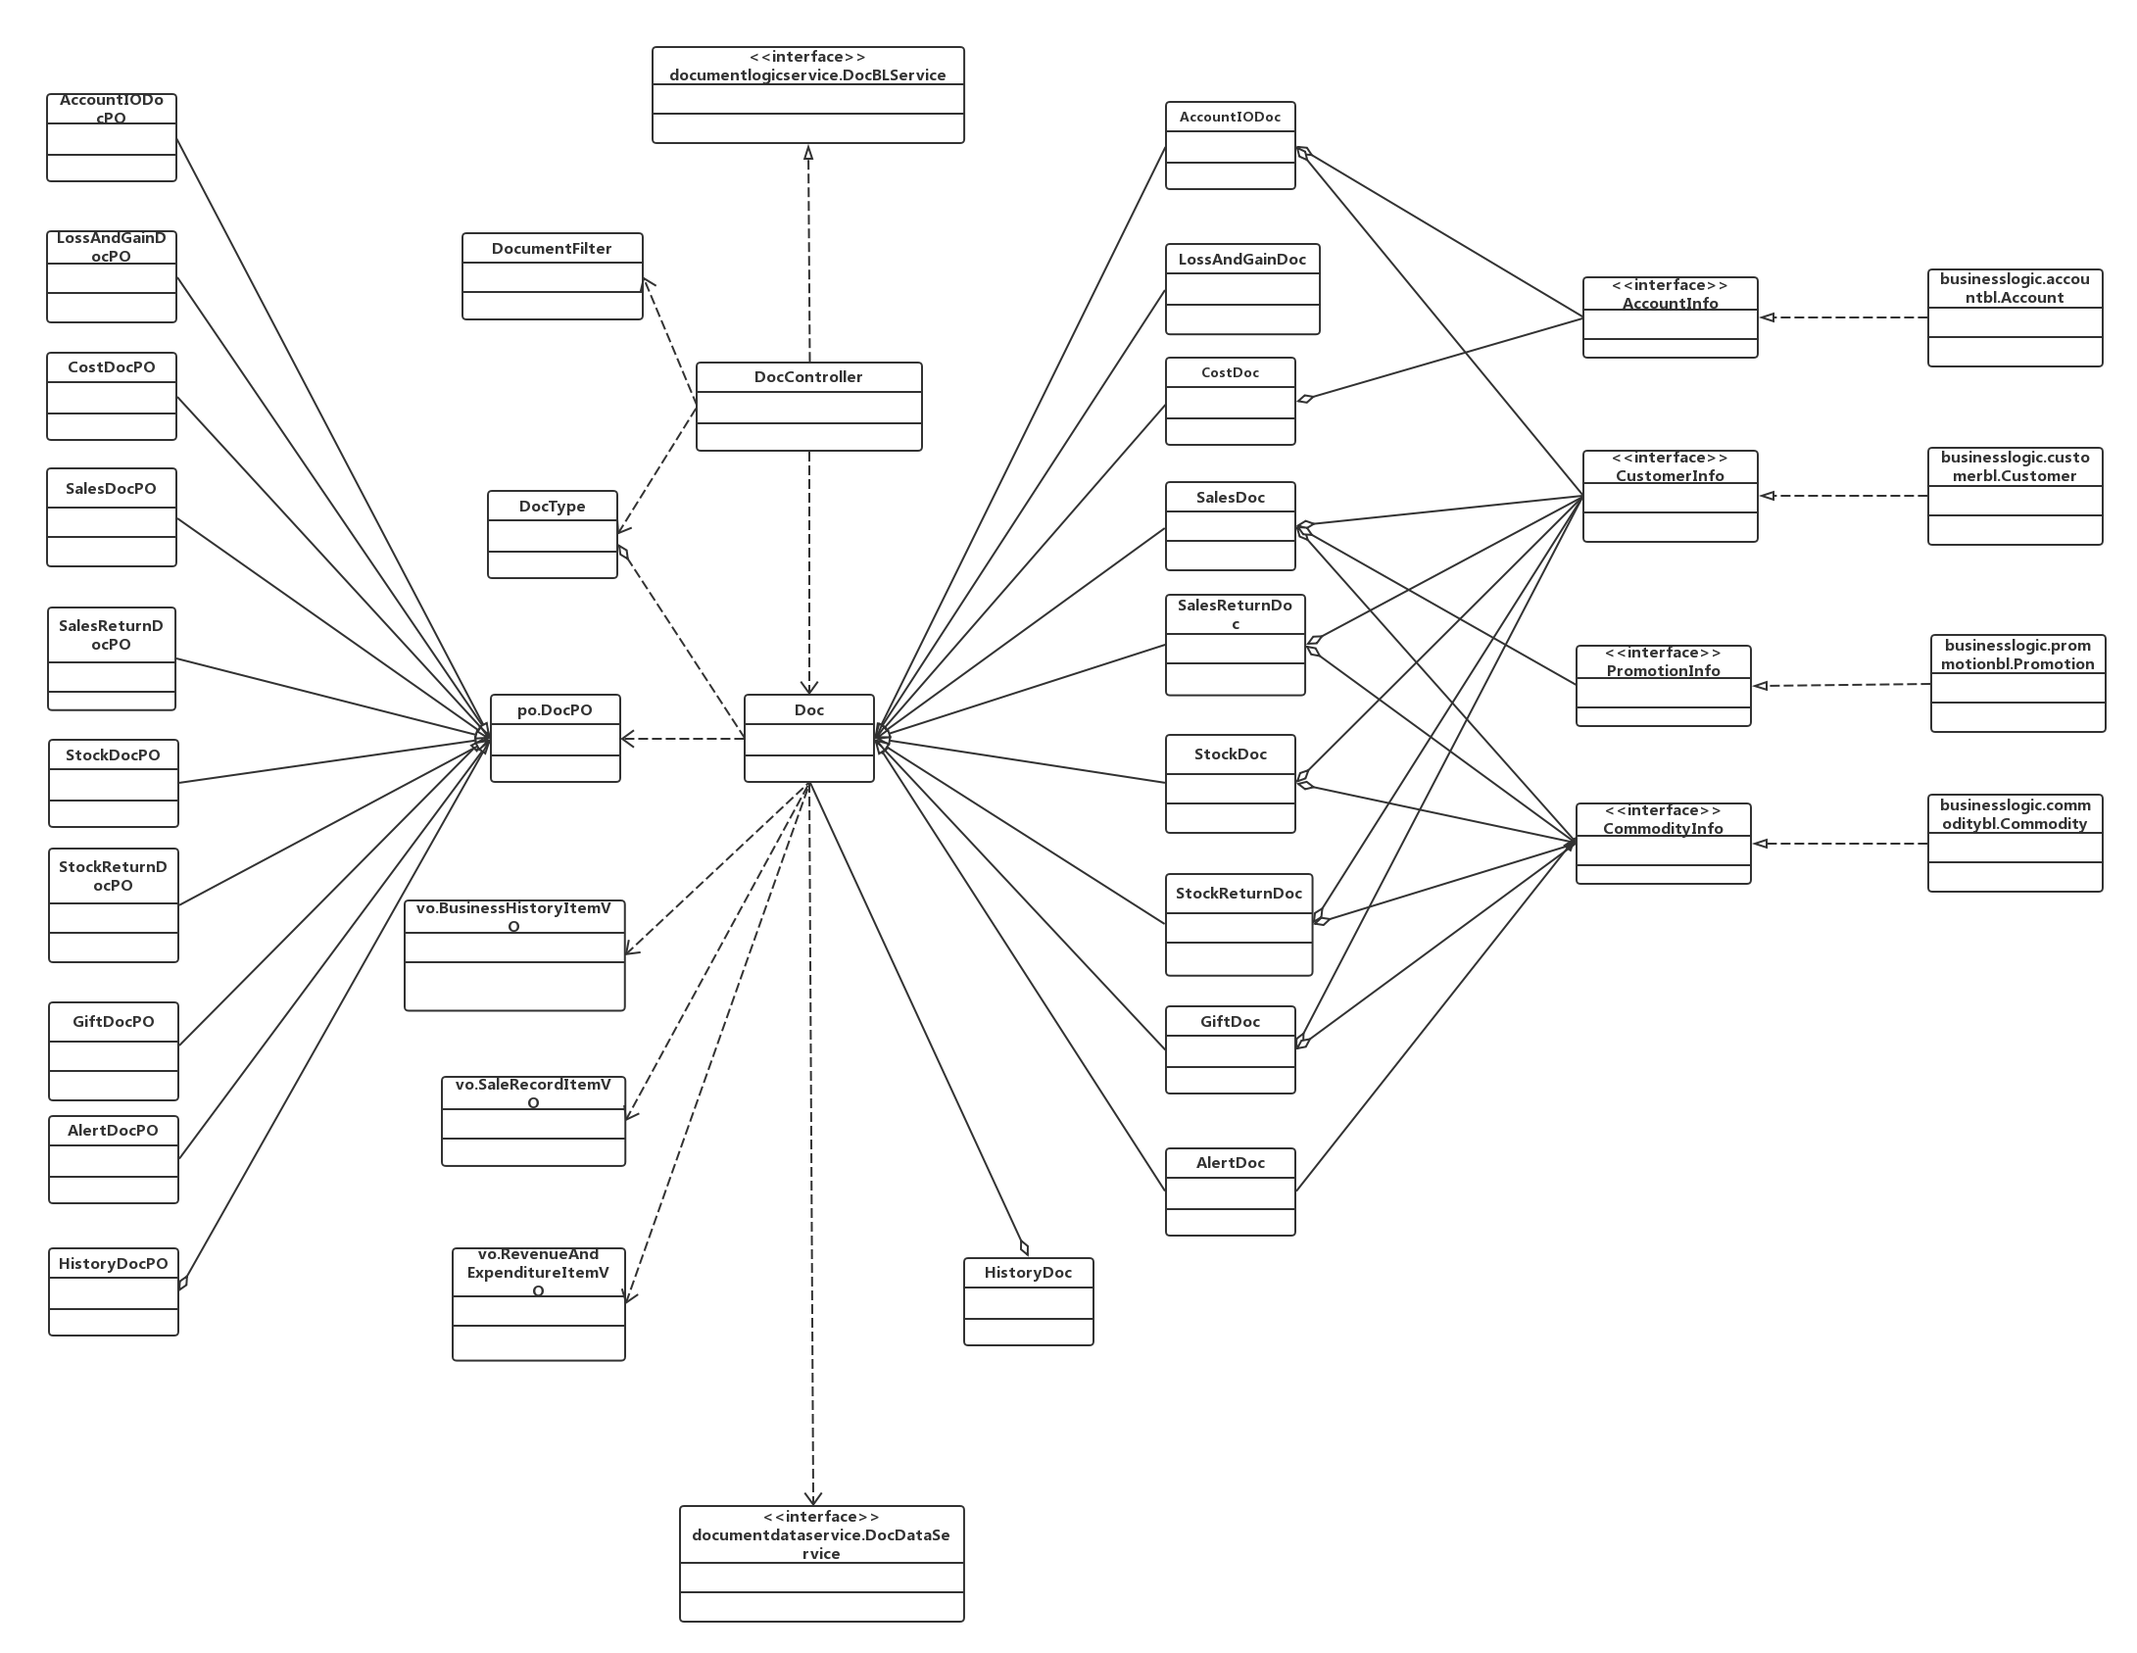
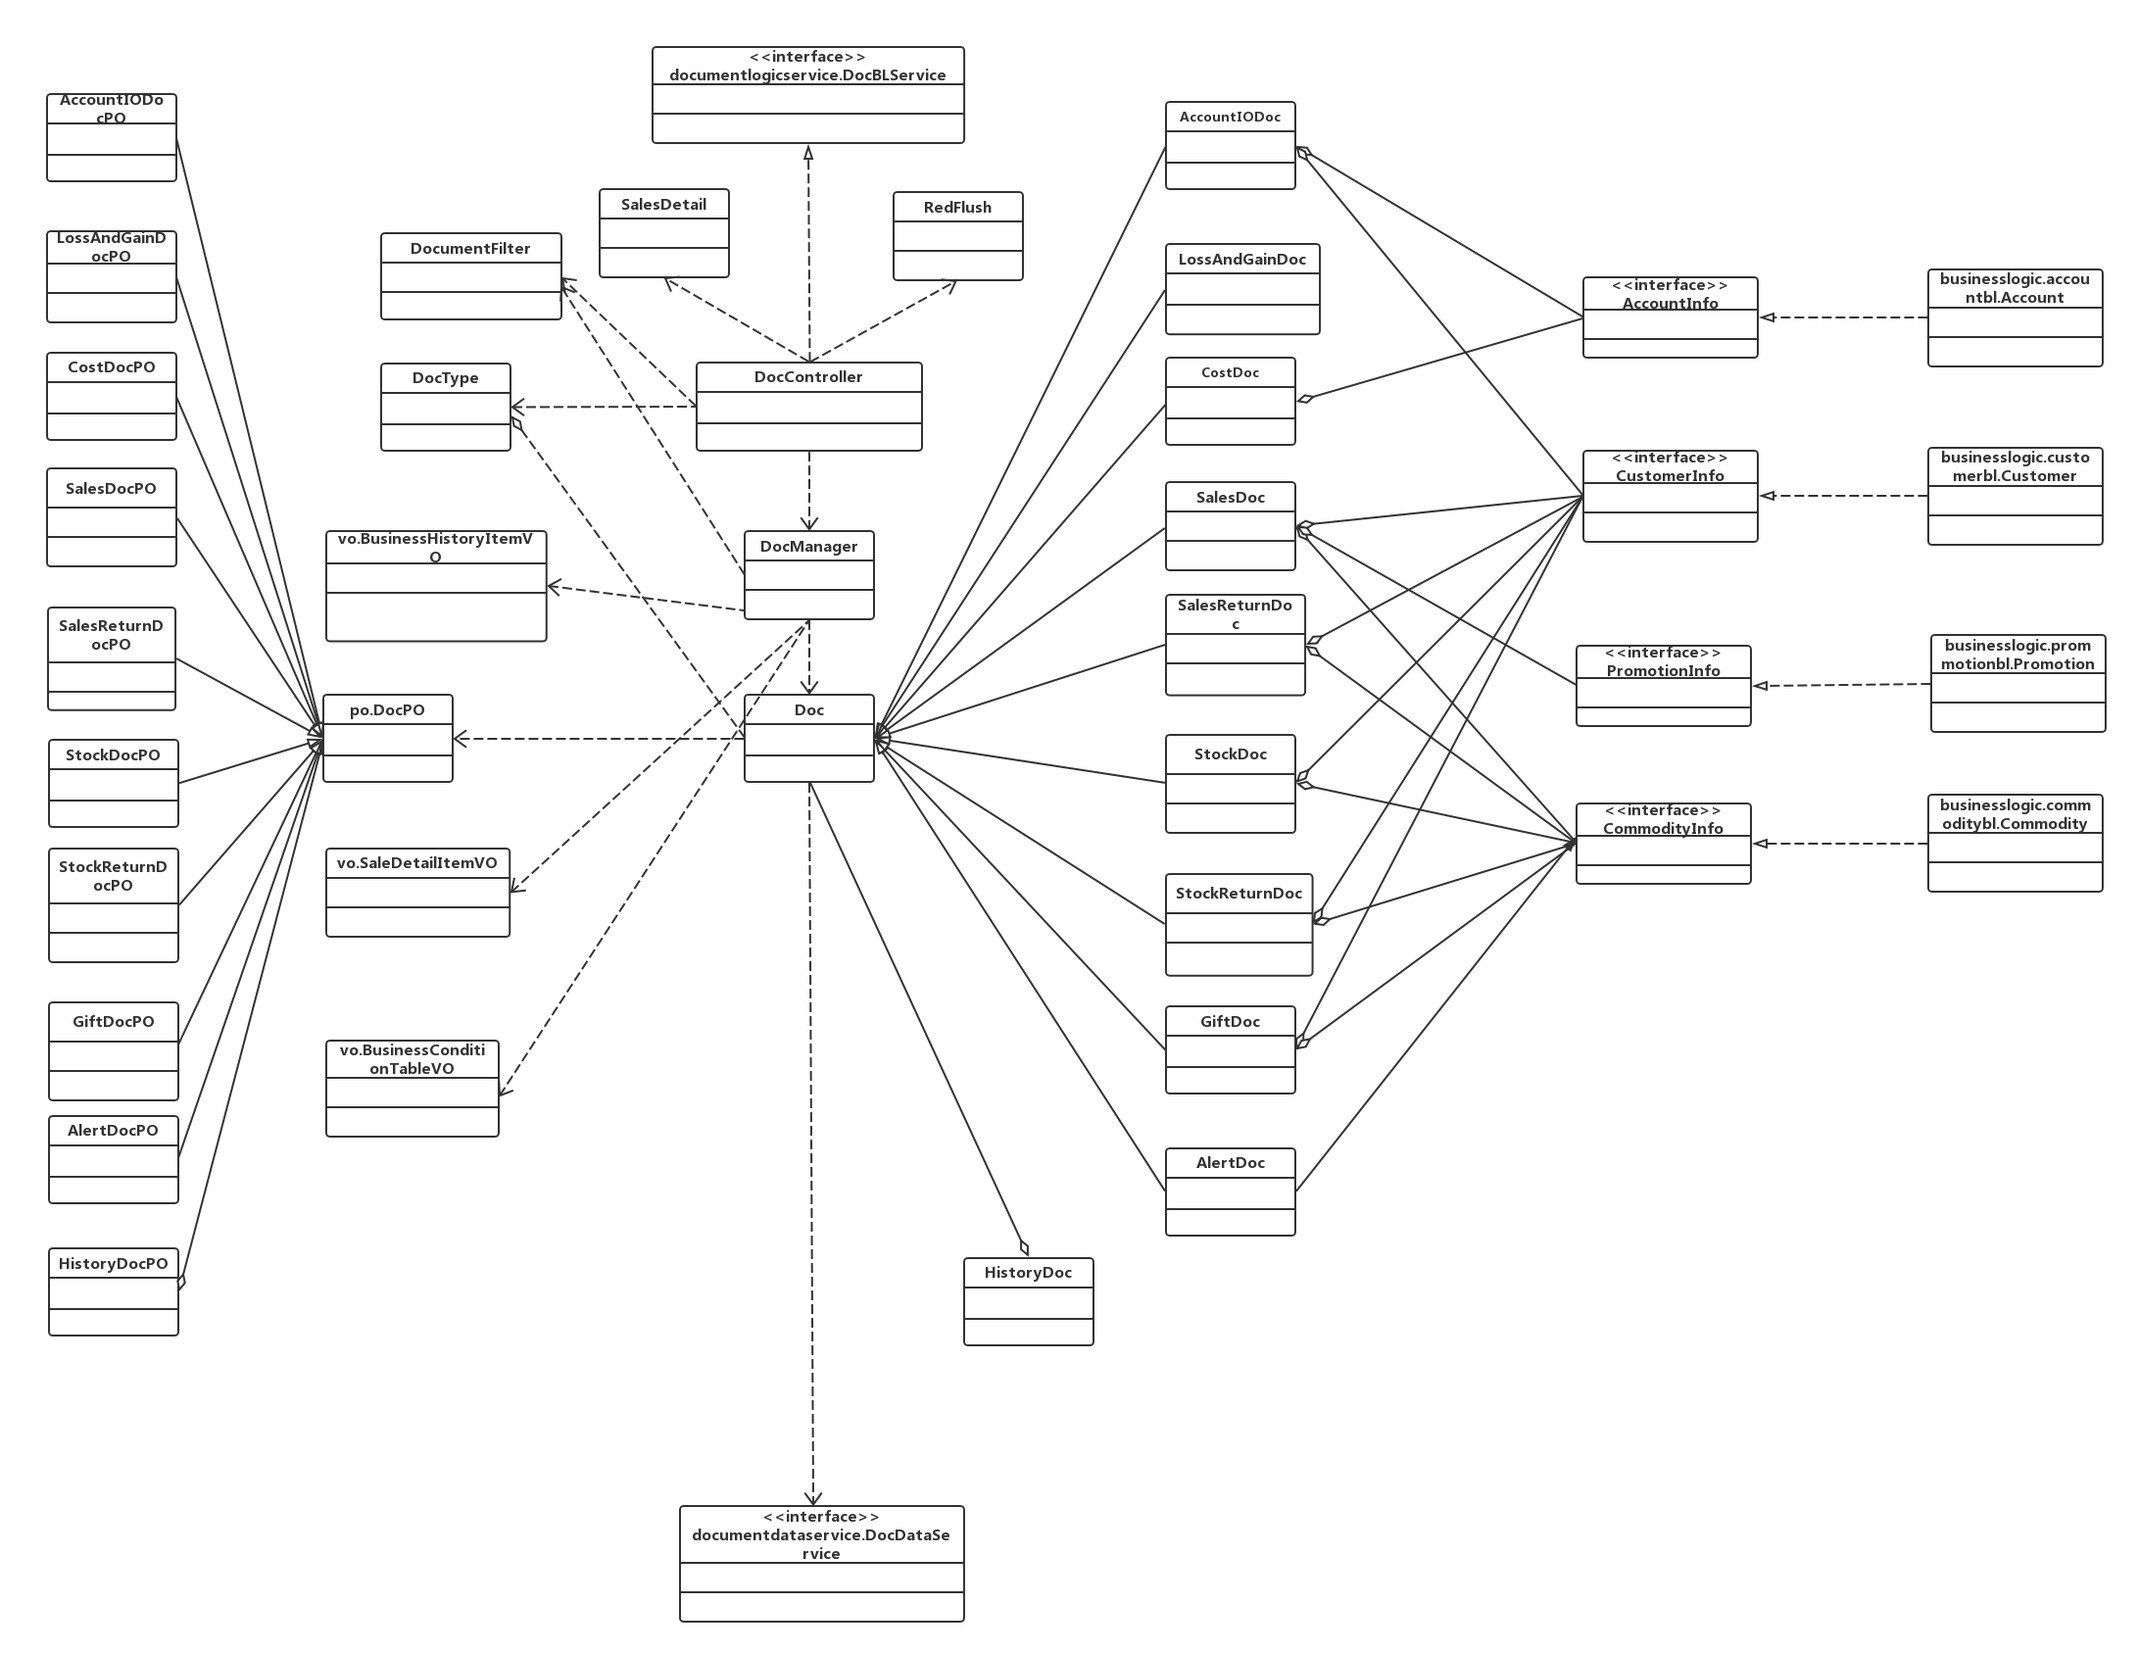
修改设计类图

diff --git a/document/体系结构文档/体系结构描述文档.md b/document/体系结构文档/体系结构描述文档.md
@@ -339,30 +339,27 @@ RepositoryDataService全部方法
 
 | 名称                            | 条目   | 详情                                       |
 | ----------------------------- | ---- | ---------------------------------------- |
-|                               | 语法   | `public DocVO createDoc(DocType type)  ` |
-| Doc.createDoc                 | 前置条件 | 传入非空的DocType                             |
-|                               | 后置条件 | 返回一个空的DocVO                              |
-|                               | 语法   | `public ResultMessage commitDoc(DocVO doc)  ` |
+|                               | 语法   | `public Result<DocVO> commitDoc(DocVO doc)  ` |
 | Doc.commitDoc                 | 前置条件 | 传入对象不为null，且包含信息正确有效                     |
 |                               | 后置条件 | 提交Doc                                    |
-|                               | 语法   | `public ArrayList<HistoryDocVO> findDocuments(DocumentFilterfilter) ` |
-| Doc.findDocuments             | 前置条件 | 传入一个非空DocFilter                          |
-|                               | 后置条件 | 返回符合DocFilter的所有Doc                      |
-|                               | 语法   | `public ArrayList<BusinessConditionItemVO> getBusinessConditionTable(DocumentFilterfilter)` |
-| Doc.getBusinessConditionTable | 前置条件 | 用户已输入正确的筛选条件并确认                          |
-|                               | 后置条件 | 返回符合筛选条件的所有销售记录的值对象                      |
-|                               | 语法   | `public ArrayList<BussinessHitoryItemVO> getBusinessHistoryTable(DocumentFilter filter)` |
-| Doc.getBusinessHistoryTable   | 前置条件 | 用户已输入正确的筛选条件并确认                          |
+|                               | 语法   | `public List<HistoryDocVO> findDocuments(DocumentFilter filter) ` |
+| Doc.findDocuments             | 前置条件 | 传入一个非空DocumentFilter                          |
+|                               | 后置条件 | 返回符合DocumentFilter的所有Doc                      |
+|                               | 语法   | `List<SalesDetailItemVO> findSaleRecords(DocumentFilter filter);` |
+| Doc.findSaleRecords | 前置条件 | 传入一个非空DocumentFilter                        |
+|                               | 后置条件 | 返回符合DocumentFilter的所有Doc                    |
+|                               | 语法   | `List<BusinessHistoryItemVO> findBusinessHistory(DocumentFilter filter);` |
+| Doc.findBusinessHistofy   | 前置条件 | 用户已输入正确的筛选条件并确认                          |
 |                               | 后置条件 | 返回符合筛选条件的所有单据的值对象                        |
-|                               | 语法   | `public SalesDetailVO getSalesDetailTable(Date StartDate,Date endDate)` |
-| Doc.getSalesDetailTable       | 前置条件 | 用户已输入正确的筛选条件并确认                          |
+|                               | 语法   | `BusinessConditionTableVO findRevenueAndExpenditure(Date startDate, Date endDate);` |
+| Doc.findRevenueAndExpenditure      | 前置条件 | 用户已输入正确的筛选条件并确认                          |
 |                               | 后置条件 | 返回所输入时间段内的收支情况的值对象                       |
 |                               | 语法   | `public ResultMessage redflush(DocVO target)  ` |
 | Doc.redflush                  | 前置条件 | 传入有效的DocVO对象                             |
 |                               | 后置条件 | 将对应红冲单据入账，更新持久化存储，更新显示                   |
-|                               | 语法   | `public DocVO redflushAndCopy(DocVO target)  ` |
-| Doc.redflushAndCopy           | 前置条件 | 传入有效的DocVO对象                             |
-|                               | 后置条件 | 返回各属性取负后的相应的DocVO对象                      |
+|                               | 语法   | `ResultMessage expireAlertDoc(AlertDocVO alertDocVO);` |
+| Doc.expireAlertDoc                  | 前置条件 | 传入有效的AlertDocVO对象                             |
+|                               | 后置条件 | 废弃相应的报警单                   |
 
 - 需要的服务（需接口）
 
@@ -486,12 +483,18 @@ RepositoryDataService全部方法
 |                         | 语法   | `public ResultMessage approve(HistoryDocVO vo)` |
 | Approval.approve        | 前置条件 | 用户有正在查看的单据                               |
 |                         | 后置条件 | 通过单据，持久化更新涉及的对象的数据                       |
+|                         | 语法   | `public ResultMessage approveAll(List<HistoryDocVO> vo)` |
+| Approval.approveAll        | 前置条件 | 用户有正在查看的单据                               |
+|                         | 后置条件 | 通过所有单据，持久化更新涉及的对象的数据                       |
 |                         | 语法   | `public ResultMessage reject(HistoryDocVO vo)` |
 | Approval.reject         | 前置条件 | 用户有正在查看的单据                               |
 |                         | 后置条件 | 驳回单据，持久化更新涉及的对象的数据                       |
 |                         | 语法   | `public ResultMessage save(HistoryDocVO vo)` |
-| Approval.saveAndApprove | 前置条件 | 有已修改需要保存且同时要通过的单据                        |
-|                         | 后置条件 | 通过该单据，持久化更新涉及的对象的数据                      |
+| Approval.save | 前置条件 | 有已修改需要保存                        |
+|                         | 后置条件 | 持久化更新涉及的对象的数据                      |
+|                         | 语法   | `List<DocVO> getDocumentList();` |
+| Approval.getDocumentList        | 前置条件 | 用户需要查看待审批的单据                              |
+|                         | 后置条件 | 返回所有待审批单据的列表                       |
 
 ##### promotionbl 模块的接口规范
 

diff --git a/document/详细设计文档/详细设计文档.md b/document/详细设计文档/详细设计文档.md
@@ -4,10 +4,10 @@
 
 ## 修改记录
 
-| 修改时间       | 修改人  | 修改内容     | 版本号  |
-| ---------- | ---- | -------- | ---- |
-| 2017.11.14 | 全体成员 | 整合详细设计文档 | 1.0  |
-|2017.1.12 |廖均达 |修改docbl、approvalbl模块|1.1|
+| 修改时间       | 修改人  | 修改内容                 | 版本号  |
+| ---------- | ---- | -------------------- | ---- |
+| 2017.11.14 | 全体成员 | 整合详细设计文档             | 1.0  |
+| 2017.1.12  | 廖均达  | 修改docbl、approvalbl模块 | 1.1  |
 
 ## 引言
 
@@ -1160,7 +1160,7 @@ promotionbl模块的职责及接口参见软件体系结构描述文档。
 
 promotionbl模块的设计如图所示
 
-![promotionbl模块](Image/设计类图/promotionbl模块.png)
+![promotionbl模块](Image/设计类图/promotionbl.png)
 
 
 
@@ -1270,6 +1270,8 @@ approvalbl模块的职责及接口参见软件体系结构描述文档。
 
 Approval模块的所有功能均由docbl模块提供的接口实现，approval模块只需要创建DocInfo的实现类，然后调用相应的方法来完成相应的功能
 
+![approval_idea](C:\Users\liao\Documents\SEIIAssignment\document\详细设计文档\Image\设计类图\approval_idea.png)
+
 ##### 模块内部类的接口规范
 
 ###### ApprovalController的接口规范
@@ -1315,24 +1317,24 @@ docbl各个类的职责如表所示
 | DocInfo          | 负责为其他需要与docbl模块交互的模块提供接口                 |
 | DocController    | 负责实现DocBLService的方法，将各个方法的具体实现委托给DocManager、RedFlush和SalesDetailTable类 |
 | Doc              | 单据的领域模型对象，含有所有单据共有的数据，提供转换成各种值对象的方法，红冲时修改相应属性的方法，审批时修改相应数据 |
-|DocItem|单据小项的领域模型需要实现的接口，配合ItemList类完成单据小项的红冲，审批，修改id的方法|
-|ItemList类|单据列表的工具类，通过泛型实现，主要功能为对列表中的Item进行管理，统一调用DocItem接口中的approve，redflush方法以辅助实现整个单据的审批、红冲功能|
-|CostDoc | 现金费用单的领域模型对象，是Doc类的子类，实现了相应的抽象方法|
-|AccountInDoc | 收款单的领域模型对象，是Doc类的子类，实现了相应的抽象方法|
-|AccountOutDoc | 付款单的领域模型对象，是Doc类的子类，实现了相应的抽象方法|
-|AlertDoc | 库存报警单的领域模型对象，是Doc类的子类，实现了相应的抽象方法|
-|StockReturnDoc | 进货退货单的领域模型对象，是Doc类的子类，实现了相应的抽象方法|
-|GiftDoc | 赠品单的领域模型对象，是Doc类的子类，实现了相应的抽象方法|
-|LossAndGainDoc | 报损报溢单的领域模型对象，是Doc类的子类，实现了相应的抽象方法|
-|SalesDoc | 销售单的领域模型对象，是Doc类的子类，实现了相应的抽象方法|
-|StockDoc | 进货单的领域模型对象，是Doc类的子类，实现了相应的抽象方法|
-|SalesReturnDoc | 销售退货单的领域模型对象，是Doc类的子类，实现了相应的抽象方法|
+| DocItem          | 单据小项的领域模型需要实现的接口，配合ItemList类完成单据小项的红冲，审批，修改id的方法 |
+| ItemList类        | 单据列表的工具类，通过泛型实现，主要功能为对列表中的Item进行管理，统一调用DocItem接口中的approve，redflush方法以辅助实现整个单据的审批、红冲功能 |
+| CostDoc          | 现金费用单的领域模型对象，是Doc类的子类，实现了相应的抽象方法         |
+| AccountInDoc     | 收款单的领域模型对象，是Doc类的子类，实现了相应的抽象方法           |
+| AccountOutDoc    | 付款单的领域模型对象，是Doc类的子类，实现了相应的抽象方法           |
+| AlertDoc         | 库存报警单的领域模型对象，是Doc类的子类，实现了相应的抽象方法         |
+| StockReturnDoc   | 进货退货单的领域模型对象，是Doc类的子类，实现了相应的抽象方法         |
+| GiftDoc          | 赠品单的领域模型对象，是Doc类的子类，实现了相应的抽象方法           |
+| LossAndGainDoc   | 报损报溢单的领域模型对象，是Doc类的子类，实现了相应的抽象方法         |
+| SalesDoc         | 销售单的领域模型对象，是Doc类的子类，实现了相应的抽象方法           |
+| StockDoc         | 进货单的领域模型对象，是Doc类的子类，实现了相应的抽象方法           |
+| SalesReturnDoc   | 销售退货单的领域模型对象，是Doc类的子类，实现了相应的抽象方法         |
 
 
 
 docbl模块的设计如下图
 
-![docbl](/Image/设计类图/docbl.png)
+![docbl](/Image/设计类图/docbl_idea.png)
 
 ##### 模块内部类的接口规范
 
@@ -1366,7 +1368,7 @@ docbl模块的设计如下图
 |                                         | 语法   | `public BusinessConditionTableVO findRevenueAndExpenditure(Date startDate, Date endDate)` |
 | DocController.findRevenueAndExpenditure | 前置条件 | 已经创建一个DocManager对象，已添加筛选条件               |
 |                                         | 后置条件 | 调用SalesDetailTable对象的getSalesDetailTable方法 |
-|                                         | 语法   | `public List<BussinessHitoryItemVO> findDocuments(DocumentFilter filter)` |
+|                                         | 语法   | `public List<BussinessHitoryItemVO> findBusinessHistory(DocumentFilter filter)` |
 | DocController.findBusinessHistory       | 前置条件 | 已经创建一个DocManager对象                       |
 |                                         | 后置条件 | 调用DocManager对象的findBusinessHistory方法     |
 |                                         | 语法   | `public ResultMessage redflush(DocVO target)  ` |
